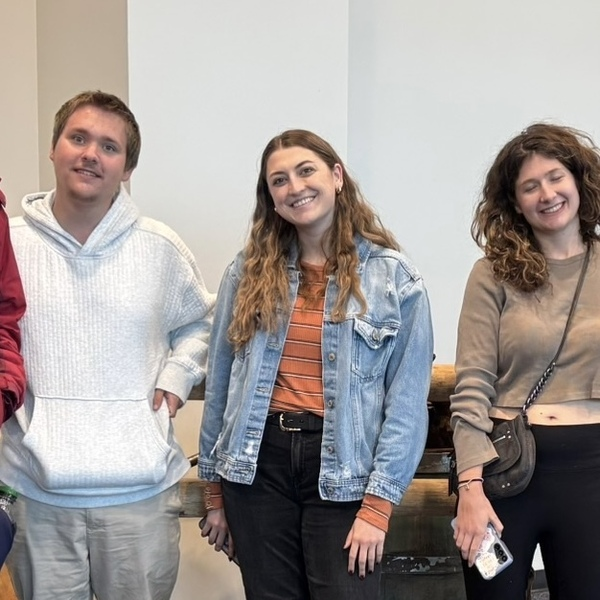
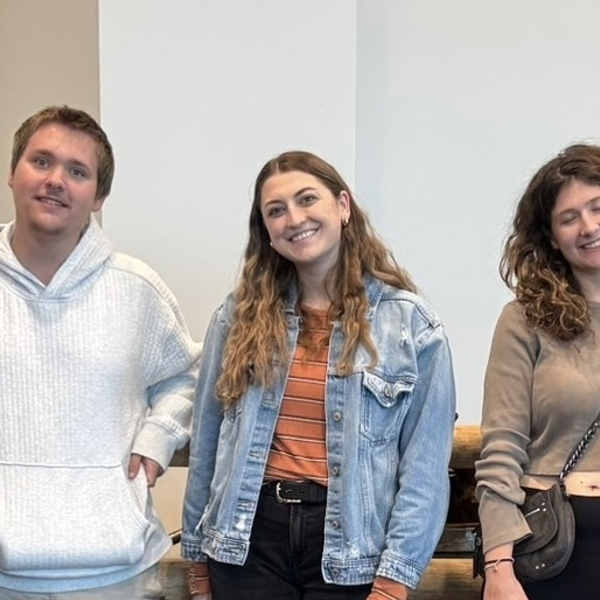
more photos

diff --git a/game.js b/game.js
@@ -1,5 +1,5 @@
-const PHOTO_COUNT = 44;
-const ZOOM_LEVEL = 7;
+const PHOTO_COUNT = 48;
+const ZOOM_LEVEL = 8;
 let zoom = ZOOM_LEVEL;
 
 const photoList = Array.from(
